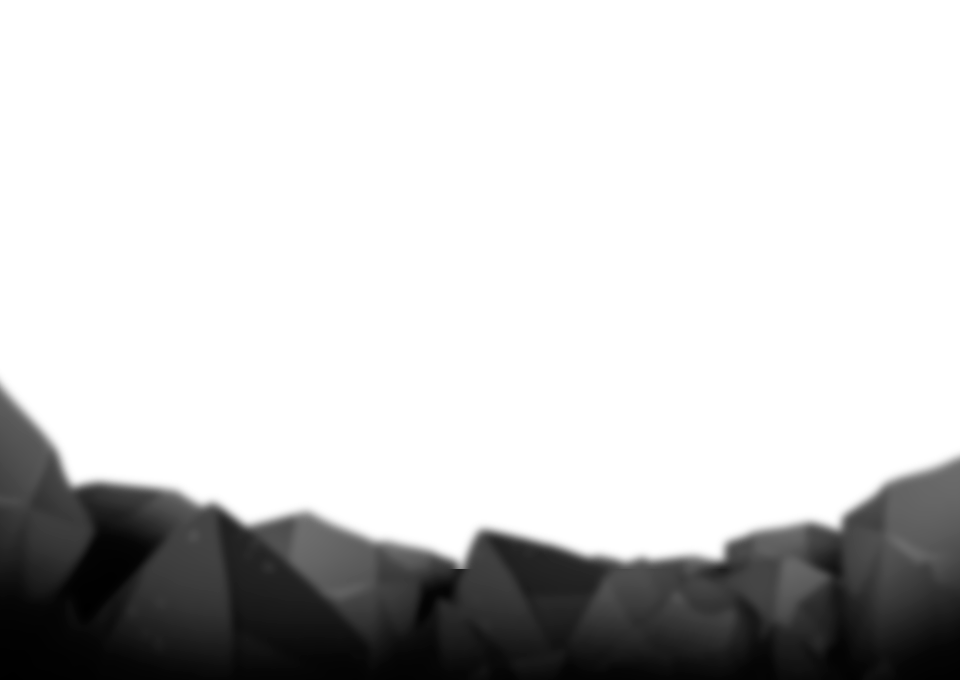
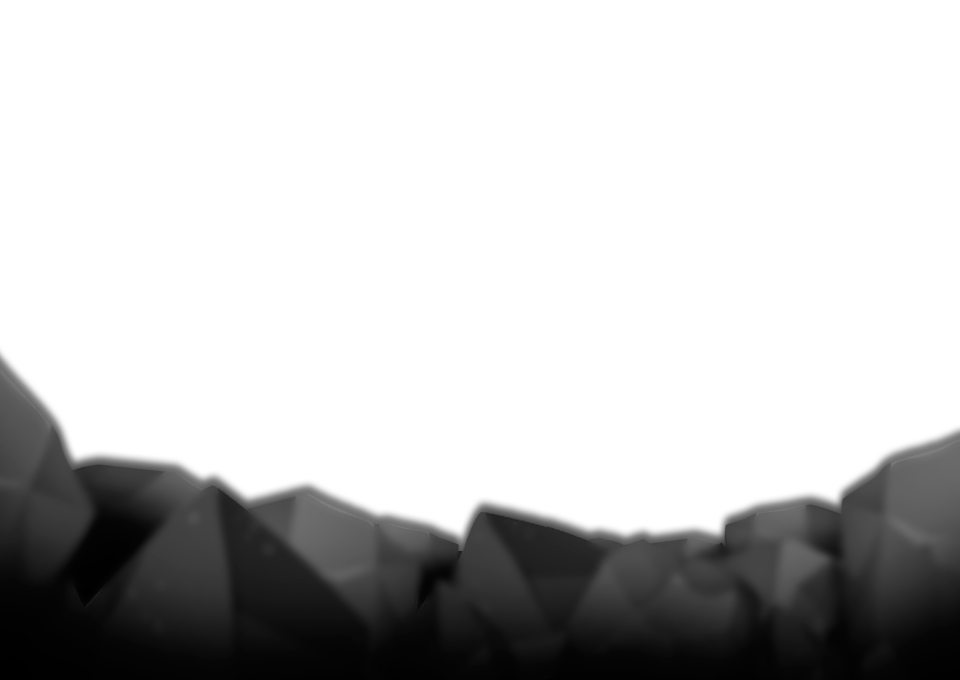
Updates

diff --git a/css/main.css b/css/main.css
@@ -37,7 +37,7 @@ body {
 
 
 /* MENU NAVBAR */
-
+.link-1:hover {-moz-border-radius:50%;-webkit-border-radius:50%;-o-border-radius:50%;border-radius:50%}
 .link-1{
     font-family: 'mosk-semi-bold-600';
     font-size: 16.67px;
@@ -49,12 +49,22 @@ body {
     display: block;
     line-height: 55px;
     color: #ffb021;
+    transition:all .2s ease-in-out;
+    -webkit-transition:all .2s ease-in-out;
+    -moz-transition:all .2s ease-in-out;
+    -ms-transition:all .2s ease-in-out;
+    -o-transition:all .2s ease-in-out;
 }
 
 .link-1:hover{
     text-decoration: none;
     background: transparent url('../img/btn1.png') no-repeat top left;
     color: #ffb021;
+    transition:all .4s ease-in-out;
+    -webkit-transition:all .4s ease-in-out;
+    -moz-transition:all .4s ease-in-out;
+    -ms-transition:all .4s ease-in-out;
+    -o-transition:all .4s ease-in-out;
 }
 
 .nav-item a {
@@ -72,9 +82,9 @@ body {
 
 .nav-item > a:hover {
     color: #00aced;
-    /* -webkit-animation: neon2 1.5s ease-in-out infinite alternate */;
-    /* -moz-animation: neon2 1.5s ease-in-out infinite alternate */;
-    /* animation: neon2 1.5s ease-in-out infinite alternate; */
+    -webkit-animation: neon2 1.5s ease-in-out infinite alternate;
+    -moz-animation: neon2 1.5s ease-in-out infinite alternate;
+    animation: neon2 1.5s ease-in-out infinite alternate;
 }
 
 .custom-toggler .navbar-toggler-icon {
@@ -152,7 +162,7 @@ body {
 
 
 #cuadro{
-    margin-bottom: 16%;
+    margin-bottom: 12%;
 }
 
 @media only screen and (max-device-width : 768px) { 
@@ -165,15 +175,15 @@ body {
         
     }
     .parallax2{
-        height: 530px !important;
+        height: 580px !important;
         background-position-x: center !important;
     }
     .fire{       
         width: 40px !important;
         height: 66.667px !important;
         background-image: url('../img/fire2.png') !important;
-        animation: playX 0.9999s steps(4) infinite,
-        playY 2.9999s steps(3) infinite;
+        animation: playX 0.4444s steps(8) infinite,
+        playY 0.6666s steps(6) infinite;
     }
     @keyframes playX {
         from {background-position-x: 0px !important;}
@@ -206,7 +216,7 @@ body {
         
     }
     .parallax2{
-        height: 1090px !important;
+        height: 1190px !important;
         background-position-x: center !important;
     }
     .fire {    
@@ -241,10 +251,10 @@ body {
 /* ANTORCHAs */
 .fire {    
     width: 150px;
-    height: 150px;
+    height: 200px;
     background-image: url('../img/fire.png');
-    animation: playX 0.175s steps(4) infinite,
-               playY 1.175s steps(3) infinite;
+    animation: playX 0.213s steps(4) infinite,
+               playY 0.672s steps(3) infinite;
   }
   
   @keyframes playX {
@@ -257,11 +267,11 @@ body {
     to {background-position-y: -600px;}
   }
 
-  /* @keyframes neon2 {
+  @keyframes neon2 {
     from {
       text-shadow: 0 0 10px #fff, 0 0 20px #fff, 0 0 30px #fff, 0 0 40px #228DFF, 0 0 70px #228DFF, 0 0 80px #228DFF, 0 0 100px #228DFF, 0 0 150px #228DFF;
     }
     to {
       text-shadow: 0 0 5px #fff, 0 0 10px #fff, 0 0 15px #fff, 0 0 20px #228DFF, 0 0 35px #228DFF, 0 0 40px #228DFF, 0 0 50px #228DFF, 0 0 75px #228DFF;
     }
-  } */
+  }

diff --git a/index.html b/index.html
@@ -44,7 +44,7 @@
 		<div class="row">
 		  <div class="col-md-12">
 			<div class="parallax1">
-				<img src="img/3_mountain.png" alt="" style="position: absolute;bottom: 15%;" class="img-fluid parallax3">
+				<img src="img/3_mountain.png" alt="" style="position: absolute;bottom: 15%;" class="img-fluid">
 				<img src="img/2_rock_down.png" alt="" style="position: absolute;bottom: 0;" class="img-fluid"> 
 			</div>
 		  </div>		  
@@ -69,10 +69,10 @@
 	  </div>
 		<div class="container pt-5 pb-5 mt-5 mb-5">
 			<div class="row justify-content-center">                
-				<div class="col-md-6 text-center">
+				<div class="col-md-6 text-center hover15">
 					<a href="#" class="link-1 mx-auto mb-3">¿QUIERES SABER MÁS?</a>
 				</div>
-				<div class="col-md-6 text-center">
+				<div class="col-md-6 text-center hover15">
 					<a href="#" class="link-1 mx-auto">CONTÁCTANOS</a>
 				</div>
 			</div>   

diff --git a/css/parallax.css b/css/parallax.css
@@ -12,7 +12,7 @@
 	position: relative;
 	background-image: url('../img/2_cave2.png');
 	/* Full height */
-	height: 1360px;
+	height: 1460px;
 	width: 100%;
 	background-repeat: no-repeat;
 	background-size: contain;
